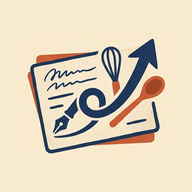
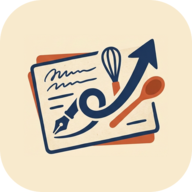
Ikon uden navn, runde hjørner

diff --git a/index.html b/index.html
@@ -9,9 +9,9 @@
     <meta name="application-name" content="UpSkrift" />
     <meta name="mobile-web-app-capable" content="yes" />
     <meta name="theme-color" content="#FBF6EE" />
-    <link rel="icon" type="image/png" href="upskrift-icon.png?v=2" />
-    <link rel="apple-touch-icon" href="apple-touch-icon.png?v=2" />
-    <link rel="manifest" href="manifest.json?v=2" />
+    <link rel="icon" type="image/png" href="upskrift-icon.png?v=3" />
+    <link rel="apple-touch-icon" href="apple-touch-icon.png?v=3" />
+    <link rel="manifest" href="manifest.json?v=3" />
     <link rel="preconnect" href="https://fonts.googleapis.com" />
     <link rel="preconnect" href="https://fonts.gstatic.com" crossorigin />
     <link
@@ -415,7 +415,7 @@
       var SB_URL = "https://yllrcsdzvyztjdxosiec.supabase.co";
       var SB_KEY = "sb_publishable_ETlKiLsJFEjAmCfZNjKxFw_iEJLMsj_";
       var PHOTO_BASE = SB_URL + "/storage/v1/object/public/photos/";
-      var APP_VERSION = "2026-11-16-4";
+      var APP_VERSION = "2026-11-17-1";
       var isAdmin = false, isMember = false;
       var BASE_TAGS = ["Hovedret", "Vegetar", "Fisk", "Pasta", "Frikadeller", "Hurtig"];
 
